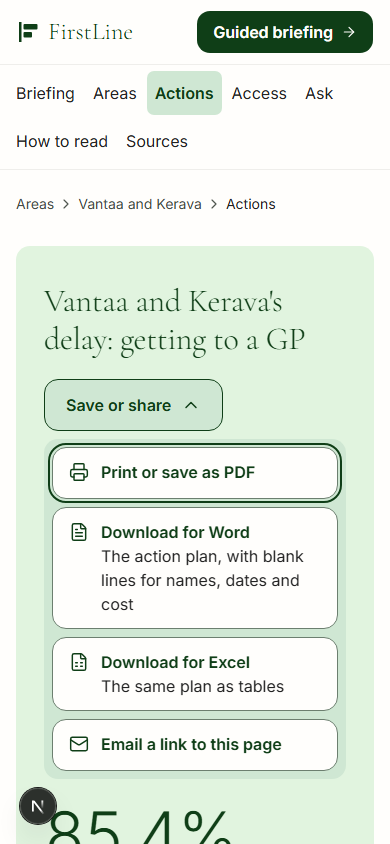
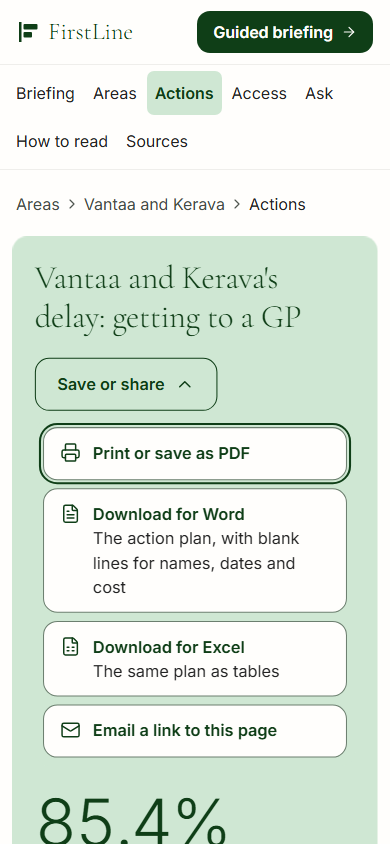
docs(audit/export): final click-through on the production build, screenshots retaken

Changed region(s): [[0.0308, 0.2773, 0.9846, 1.0], [0.0308, 0.2156, 0.7692, 0.2464]]

diff --git a/docs/audit/export/notes.md b/docs/audit/export/notes.md
@@ -114,4 +114,8 @@ See the PR body for the verify command output. The click-through script (playwri
   - The email link's address was fetched and answered 200.
 - No horizontal scroll at 390px. One control per page and no other export buttons. The old `/plan` address lands on `/act`.
 
+The final run was made against the production build (`next start`) after the last foundation merge: 107 checks, 0 failures. The dev server, run before that merge, showed both labels of every Disclosure ("Why?" and "Hide why") after hot-reloading the foundation's new `globals.css`. The production build shows one label, so this is stale dev CSS, not a bug; restart `npm run dev` after merging.
+
+On the briefing's last step at 1366×768, the first option sits under the step's fixed Back bar until the reader scrolls a little, as the old buttons did. Moving the options above the three-line summary would fix that. It was left alone to keep this change small.
+
 Screenshots: `docs/audit/export/screenshots/` (`<page>-<desktop|phone>[-open].png`, `act-print-media.png`, etc.).
